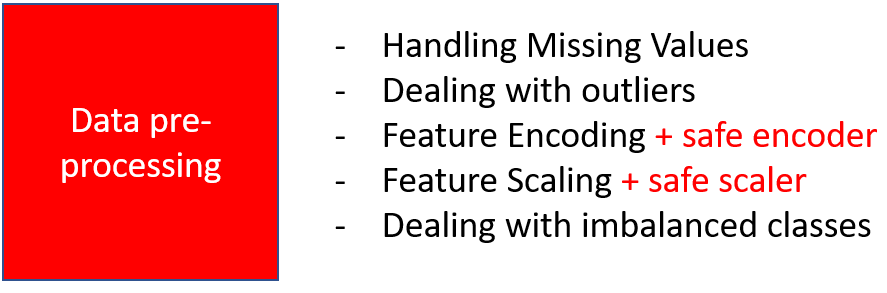
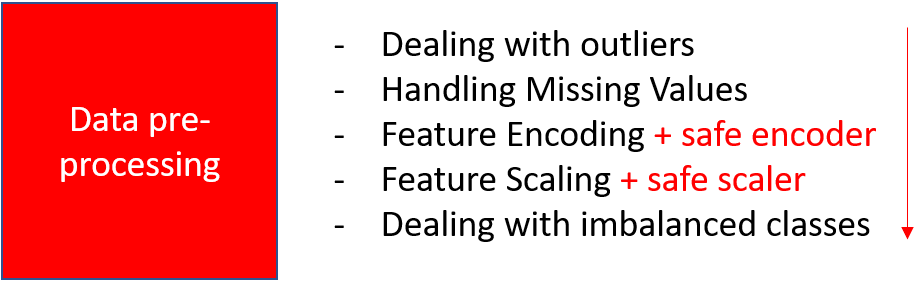
change order of some points

diff --git a/content/post/2020-02-19-roadmap-for-classification-tasks.html b/content/post/2020-02-19-roadmap-for-classification-tasks.html
@@ -10,6 +10,8 @@ tags:
 ---
 
 <script src="/rmarkdown-libs/header-attrs/header-attrs.js"></script>
+<link href="/rmarkdown-libs/anchor-sections/anchor-sections.css" rel="stylesheet" />
+<script src="/rmarkdown-libs/anchor-sections/anchor-sections.js"></script>
 
 
 <div id="table-of-content" class="section level1">
@@ -36,8 +38,8 @@ tags:
 <p><img src="/post/2020-02-19-roadmap-for-classification-tasks_files/p40p1.png" /></p>
 <p>Here are the links to the individual topics:</p>
 <ul>
-<li><a href="https://michael-fuchs-python.netlify.com/2019/03/18/dealing-with-missing-values/">Handling Missing Values</a></li>
 <li><a href="https://michael-fuchs-python.netlify.com/2019/08/20/dealing-with-outliers/">Dealing with outliers</a></li>
+<li><a href="https://michael-fuchs-python.netlify.com/2019/03/18/dealing-with-missing-values/">Handling Missing Values</a></li>
 <li><a href="https://michael-fuchs-python.netlify.com/2019/06/16/types-of-encoder/">Feature Encoding</a></li>
 <li><a href="https://michael-fuchs-python.netlify.com/2019/08/31/feature-scaling-with-scikit-learn/">Feature Scaling</a></li>
 <li><a href="https://michael-fuchs-python.netlify.com/2020/01/16/dealing-with-imbalanced-classes/">Dealing with imbalanced classes</a></li>
